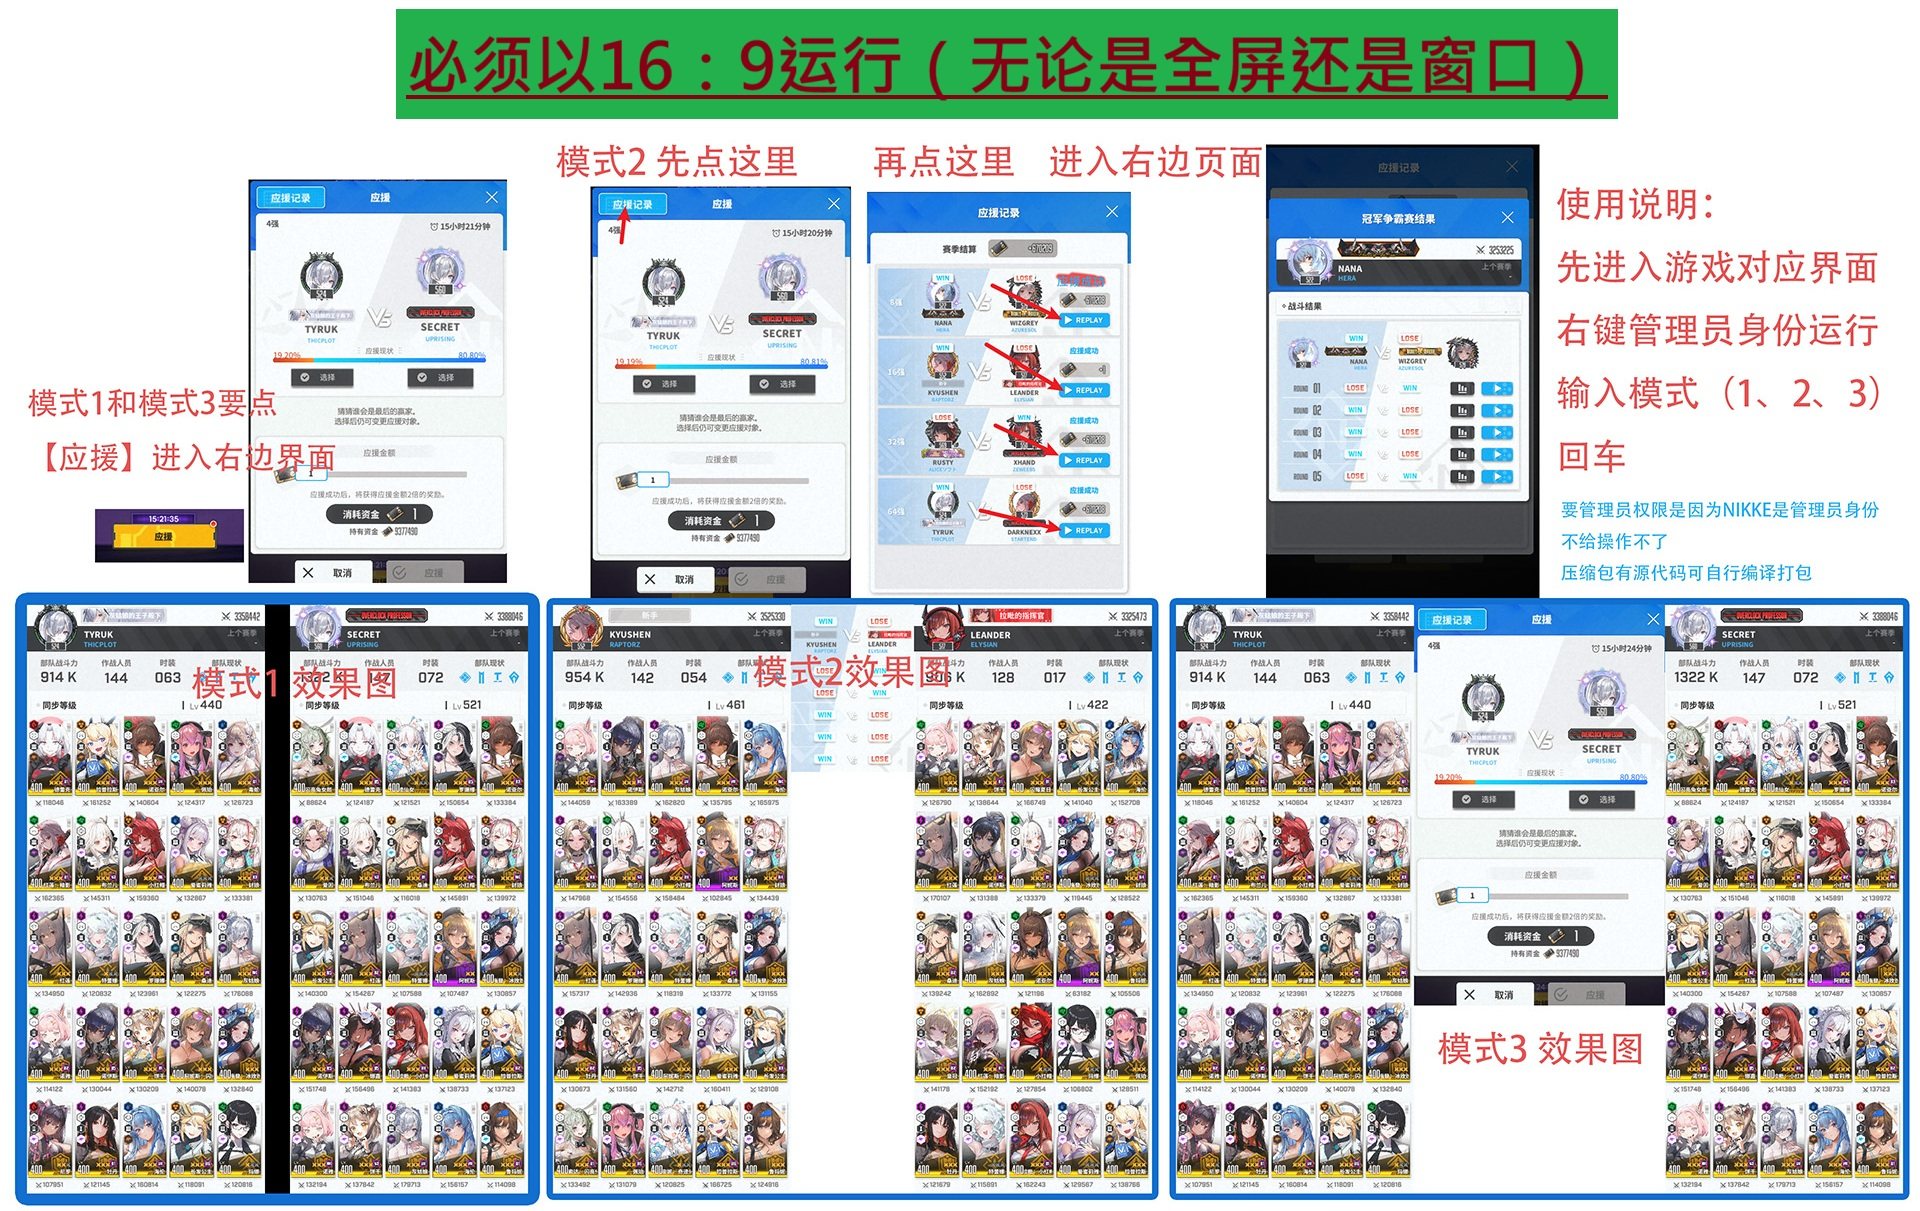
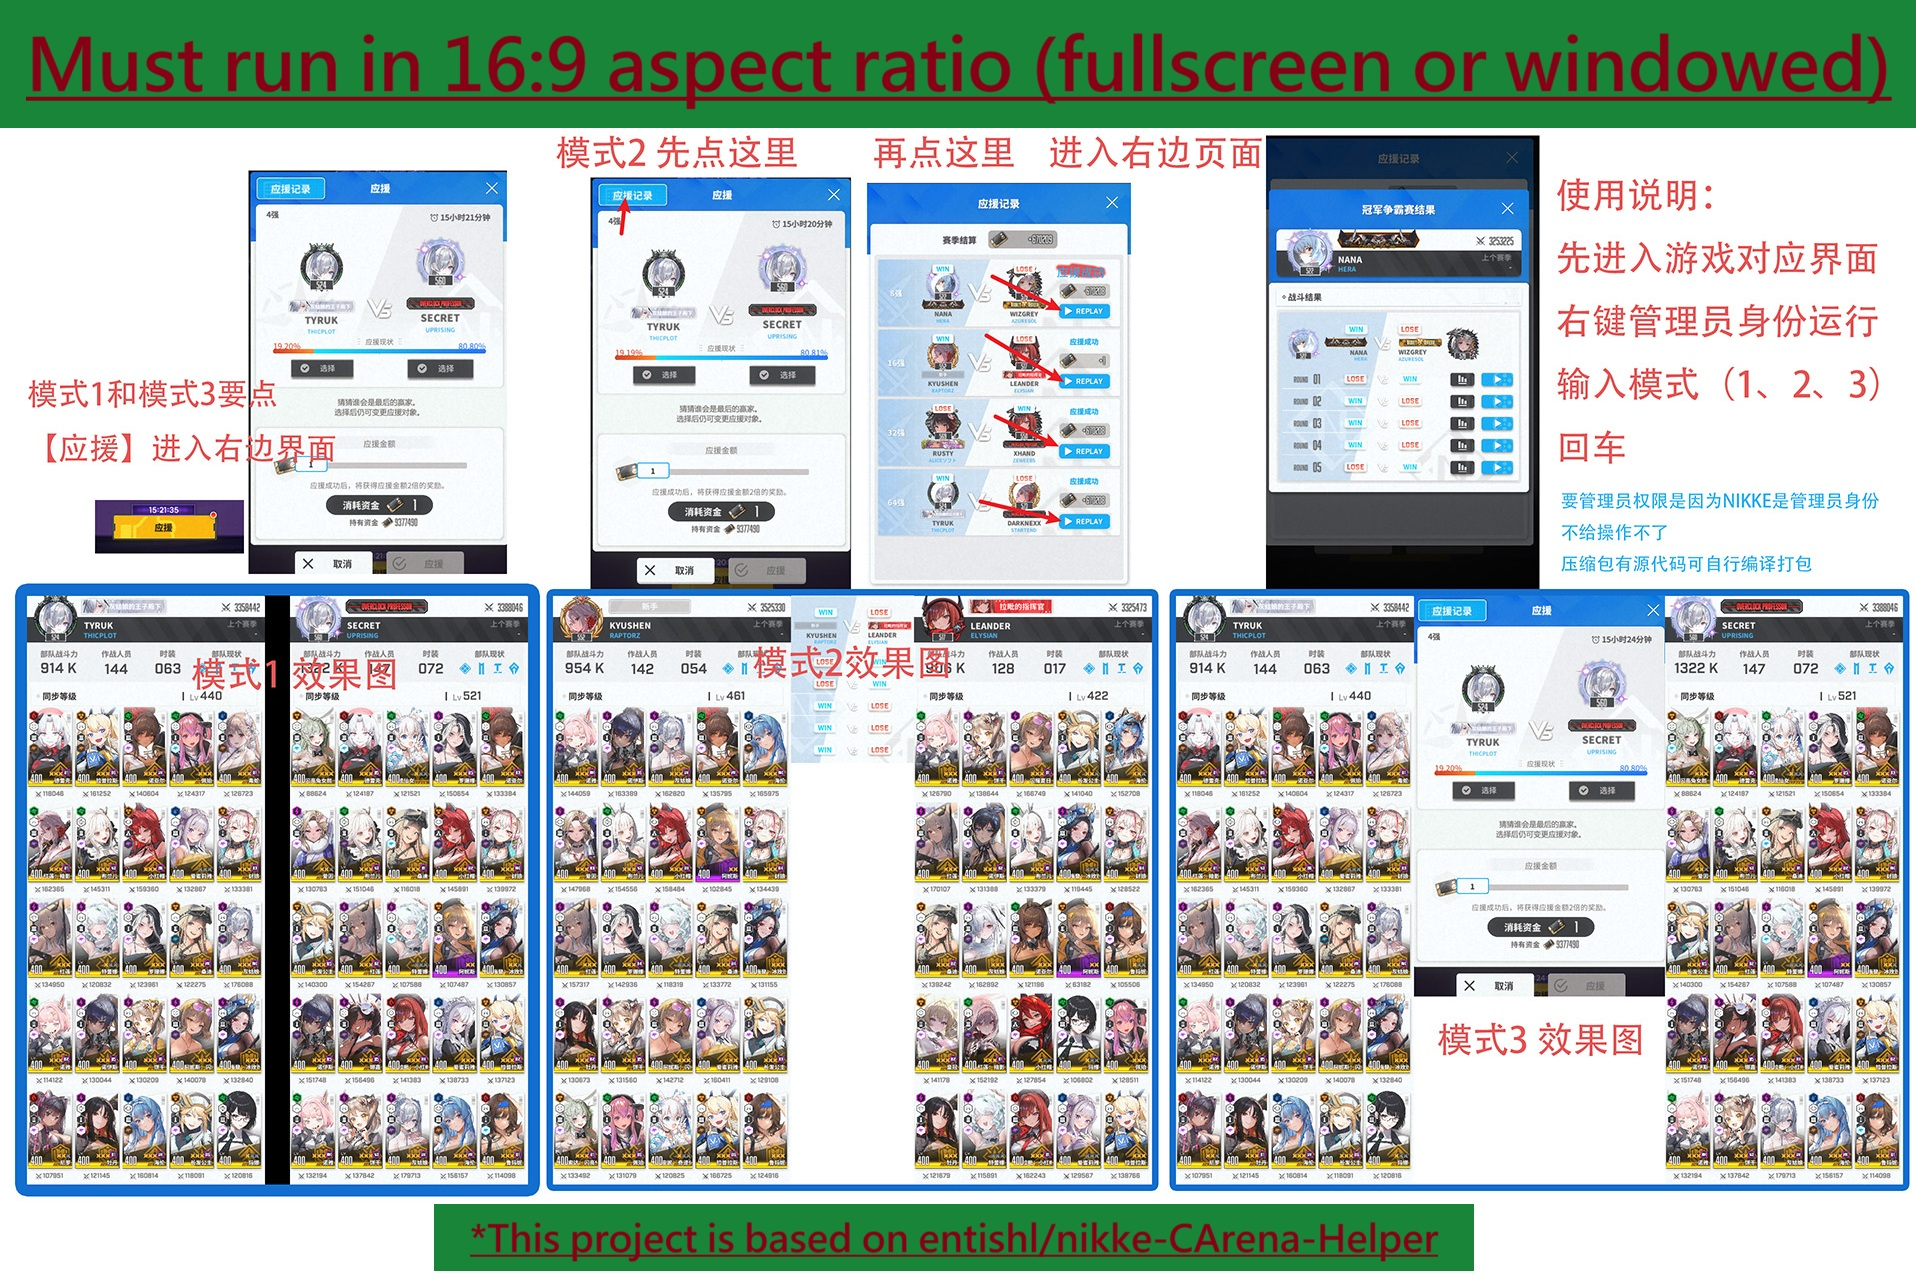
docs: Update README amd manual img to include special thanks

diff --git a/README.md b/README.md
@@ -1,8 +1,11 @@
 # NIKKE CJJC Automator
 
+> **Special Thanks:** This project is based on [entishl/nikke-CArena-Helper](https://github.com/entishl/nikke-CArena-Helper).
+
 NIKKE CJJC Automator is a modern, maintainable, and extensible automation tool for NIKKE, supporting multi-mode automation, interactive CLI, Windows privilege detection, image caching and merging, and safe hotkey termination.
 
 ## Features
+
 - Modern Python package architecture, MVC layered design, type hints
 - Centralized configuration in `settings.default.toml`, auto-management and version check, supports delay parameters
 - Interactive CLI (Typer + Questionary), auto menu if no arguments
@@ -15,27 +18,32 @@ NIKKE CJJC Automator is a modern, maintainable, and extensible automation tool f
 ## Installation & Usage
 
 ### 1. Download Executable
+
 - Go to [Releases](https://github.com/t106362512/releases) and download the latest `nikke-cjjc-automator.exe`
 - Double-click to run, or run from command line
 
 ### 2. Source Installation
+
 ```bash
 pdm install
 pdm run nikke-cjjc-automator
 ```
 
 ### 3. Build EXE
+
 ```bash
 pdm run nikke-cjjc-automator-build
 ```
 
 ## Usage
+
 - If not run as administrator, `img/manual.jpg` will be opened and a prompt will appear
 - Enter the interactive menu and select an automation mode
 - You can adjust delays, hotkeys, output directory, etc. in `settings.default.toml`
 - Use Ctrl+C or custom hotkey to safely terminate during execution
 
 ## Configuration
+
 - `settings.default.toml`: Centralized management of all parameters, auto-copied to user directory on first run
 - Key parameters:
   - `START_DELAY`, `INITIAL_PLAYER_DELAY`, `ACTION_DELAY`: Delays for each stage
@@ -43,6 +51,7 @@ pdm run nikke-cjjc-automator-build
   - `STOP_HOTKEY`: Custom stop hotkey (supports ctrl+c)
 
 ## Development/Architecture
+
 - Core: `nikke_cjjc_automator/core.py`
 - CLI entry: `nikke_cjjc_automator/cli.py`
 - Config management: `nikke_cjjc_automator/config.py`
@@ -50,10 +59,12 @@ pdm run nikke-cjjc-automator-build
 - Image merging, hotkey, and mode strategies are independent modules
 
 ## CI/CD
+
 - Integrated with GitHub Actions, auto-builds EXE and uploads to Release
 - Pushing a tag (e.g. v1.0.0) triggers the workflow
 
 ## Notes
+
 - Windows only
 - Please run as administrator
 - If antivirus flags the program, add it to the whitelist
@@ -62,3 +73,6 @@ pdm run nikke-cjjc-automator-build
 
 For questions or suggestions, please open a GitHub Issue.
 
+<!-- 
+pdm run pyi-grab_version C:\Windows\System32\cmd.exe version_info.txt
+ -->
